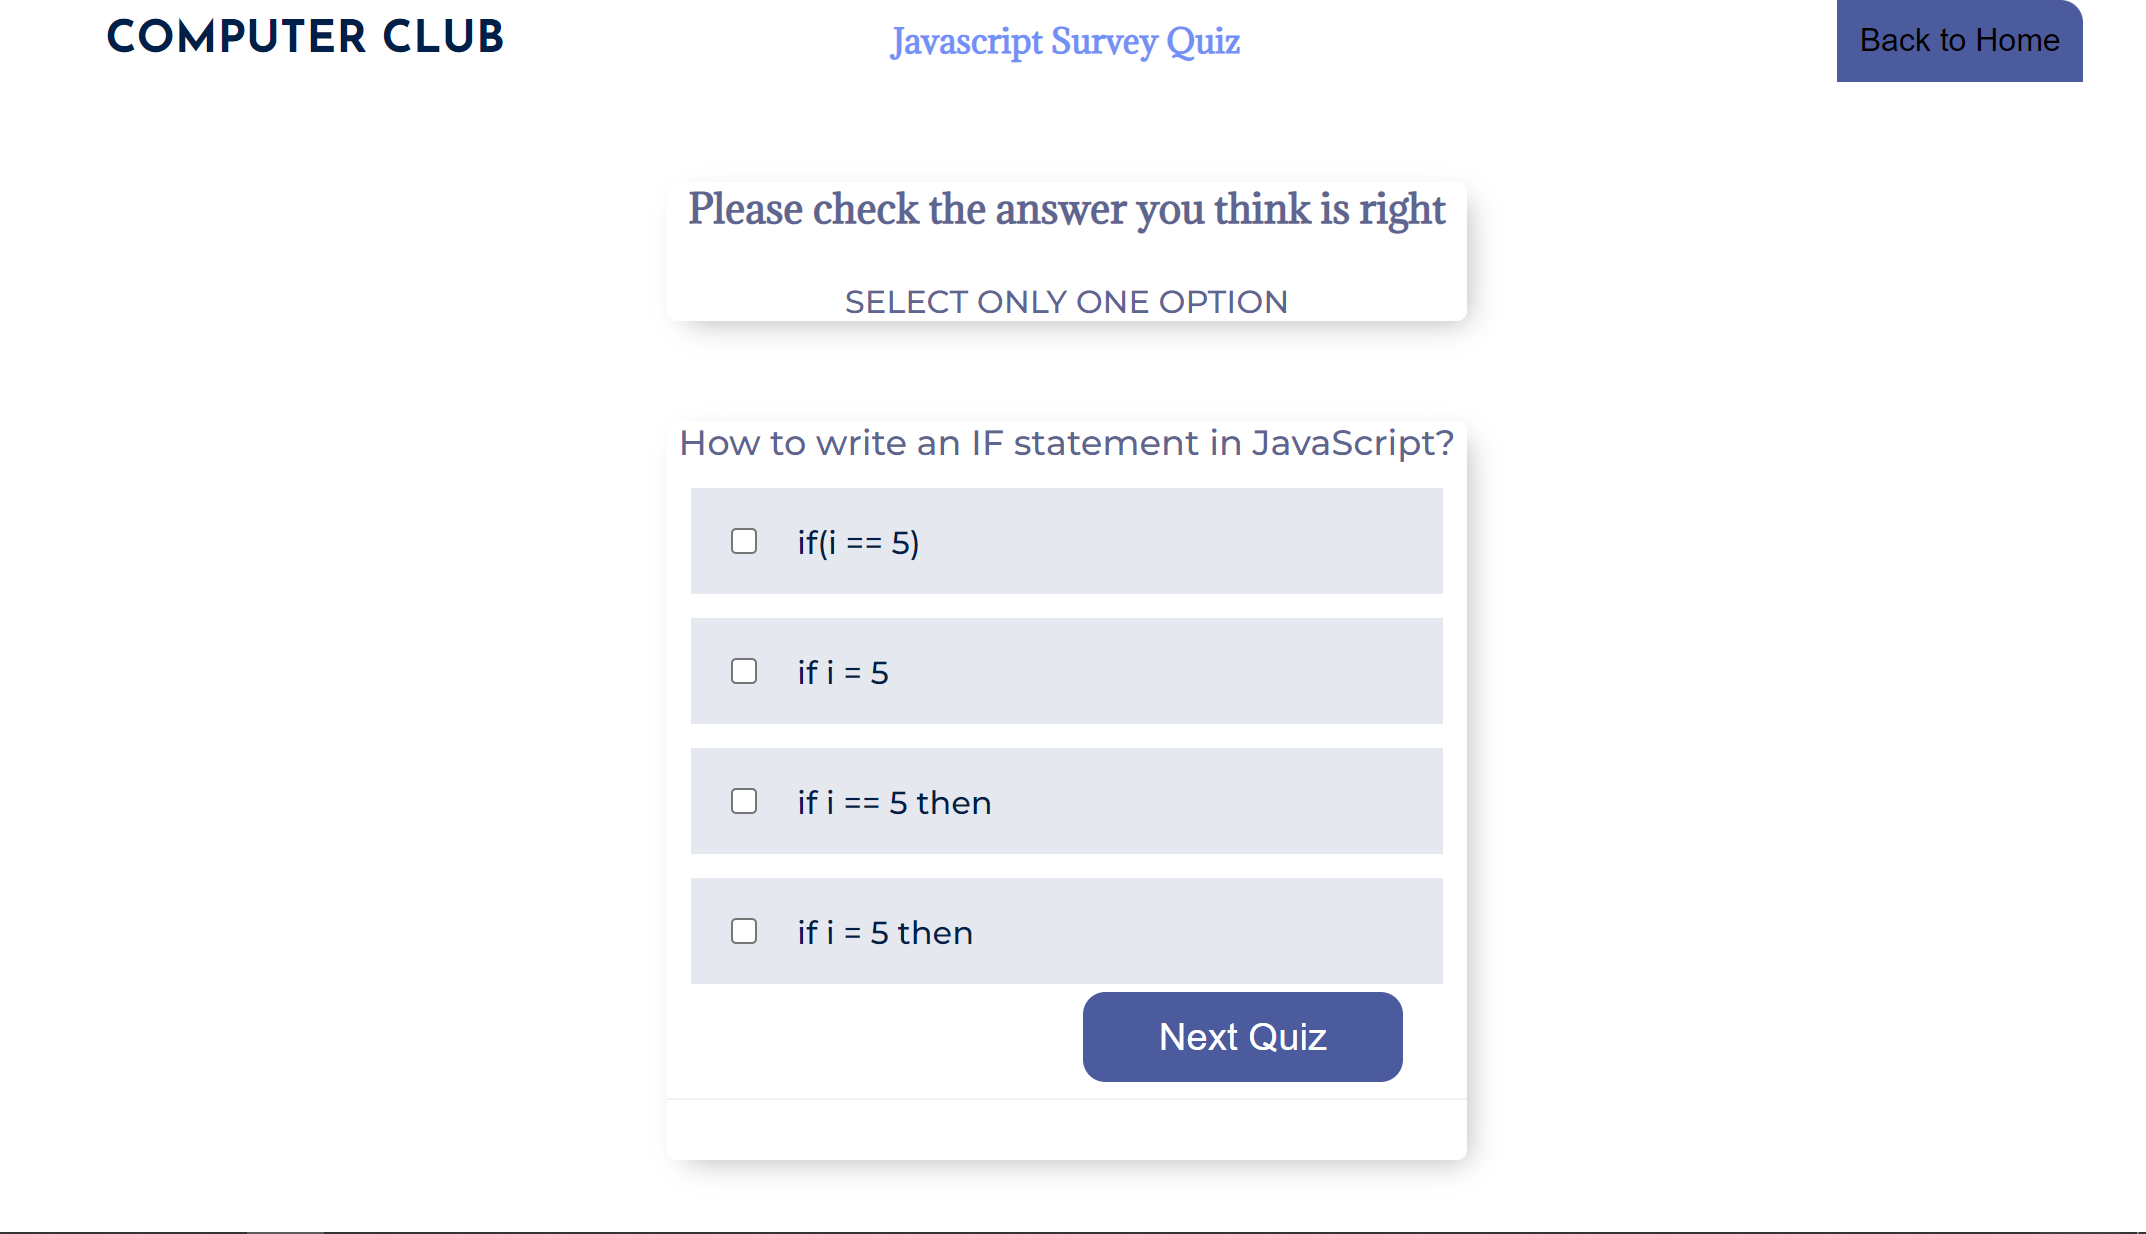
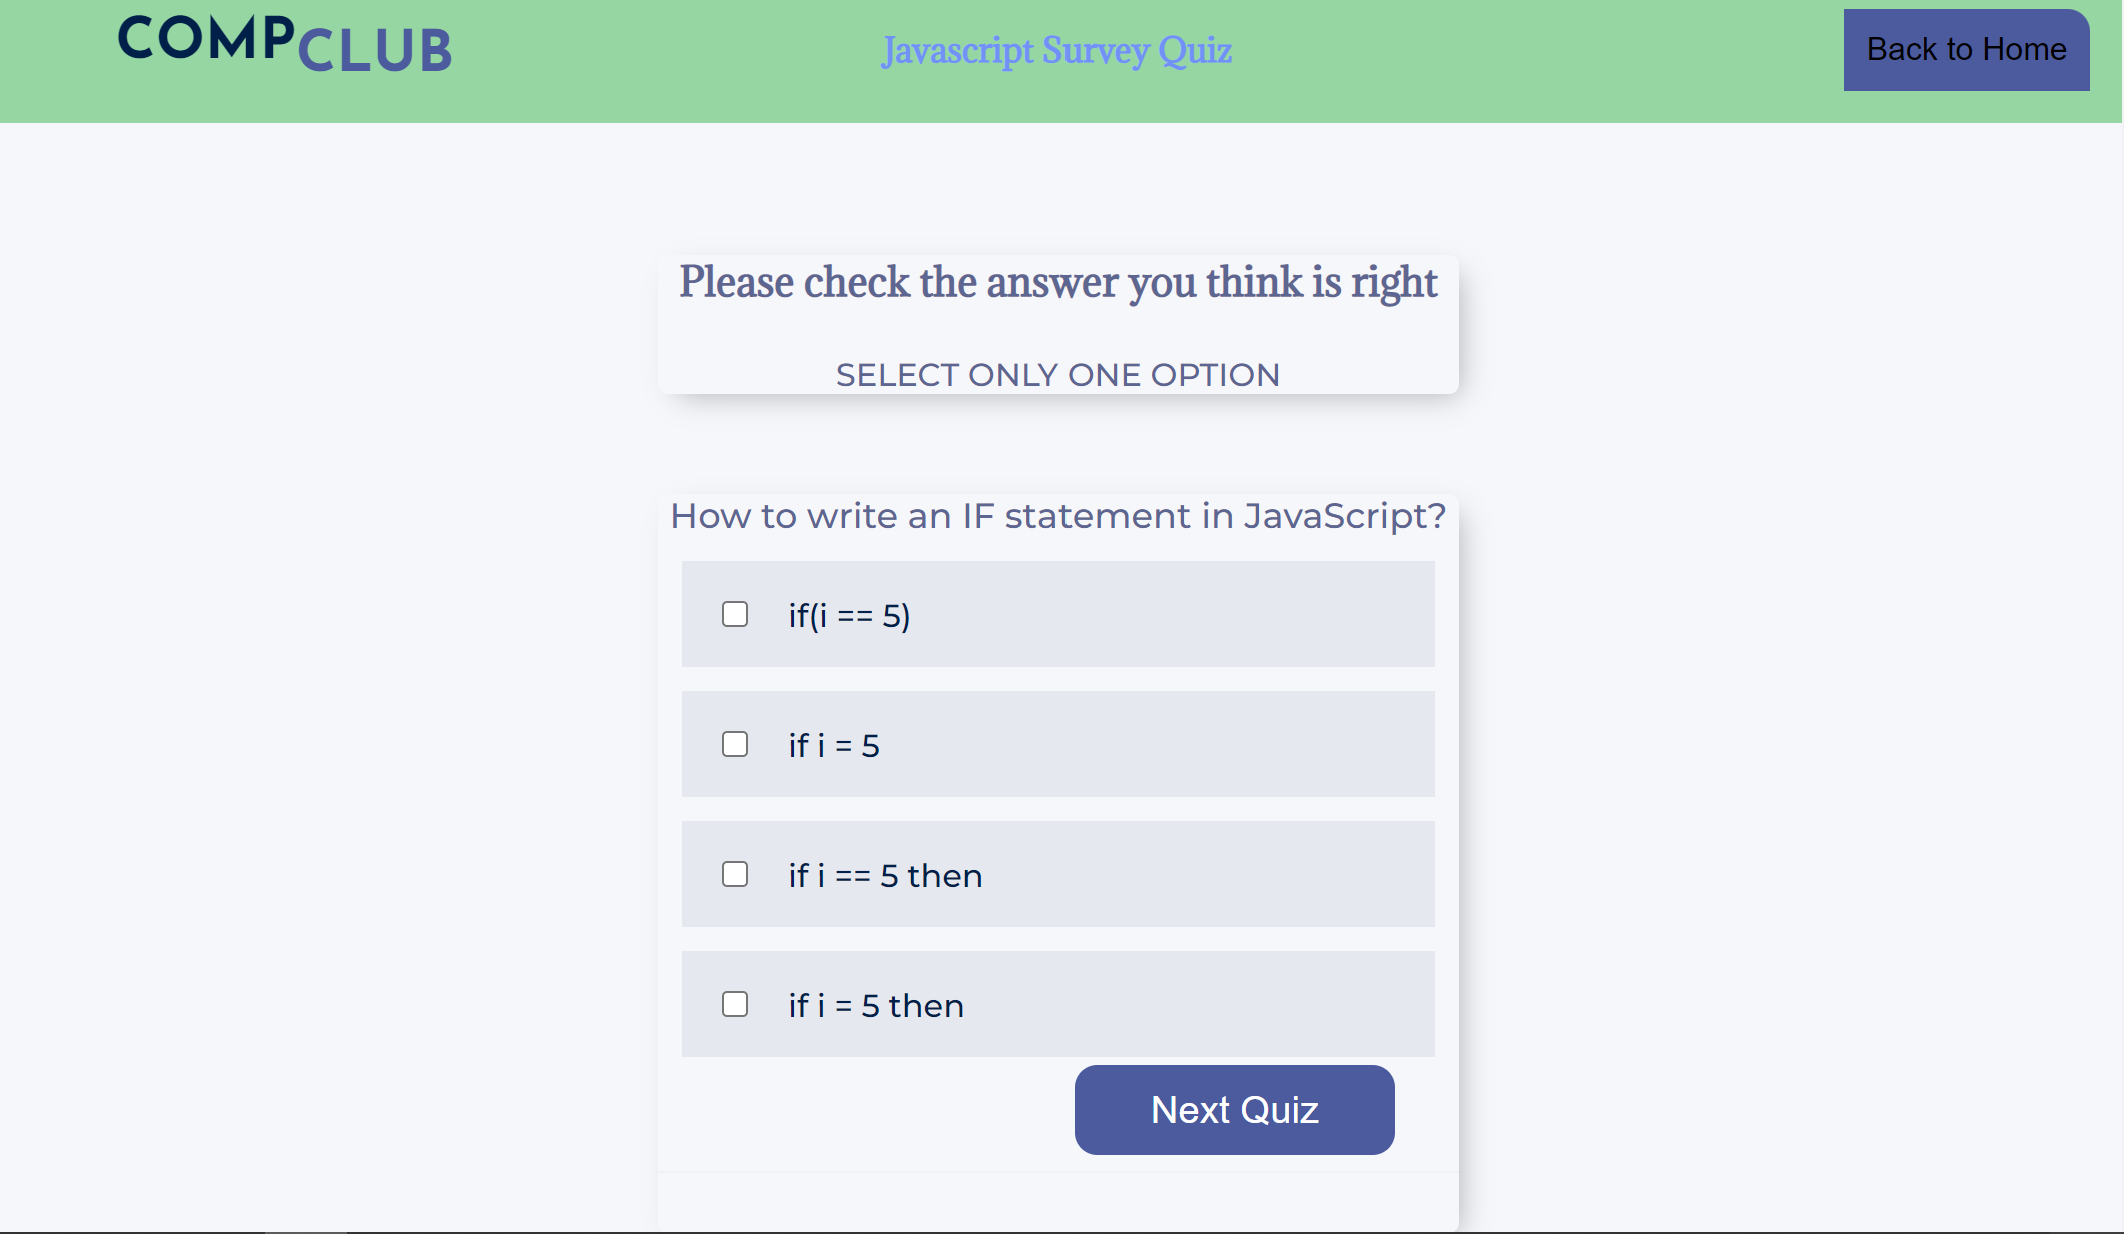
Modify the css stylesheet to change the general outlook of the page

diff --git a/assets/pages/quiz.html b/assets/pages/quiz.html
@@ -12,23 +12,23 @@
     <link rel="stylesheet" href="../css/styles.css" />
   </head>
   <body>
-    <section id="home">
-      <nav>
-        <div class="navMenu">
-          <div class="logo">
-            <h1>
-              <span class="logoTitle">COMP</span
-              ><span class="logoSubTitle">CLUB</span>
-            </h1>
-          </div>
-          <div class="pageTitle">Javascript Survey Quiz</div>
-          <div class="navButton">
-            <button type="submit">
-              <a href="../../index.html">Back to Home</a>
-            </button>
-          </div>
+    <nav>
+      <div class="navMenu">
+        <div class="logo">
+          <h1>
+            <span class="logoTitle">COMP</span
+            ><span class="logoSubTitle">CLUB</span>
+          </h1>
         </div>
-      </nav>
+        <div class="pageTitle">Javascript Survey Quiz</div>
+        <div class="navButton">
+          <button type="submit">
+            <a href="../../index.html">Back to Home</a>
+          </button>
+        </div>
+      </div>
+    </nav>
+    <section id="home">
       <div id="heading">
         <h3>Please check the answer you think is right</h3>
         <p>SELECT ONLY ONE OPTION</p>
@@ -221,6 +221,18 @@
         </div>
       </div>
     </section>
+    <div class="footer">
+      <p class="footerText">
+        Copyright ⓒ
+        <a
+          href="https://github.com/moryno"
+          target="_blank"
+          rel="noopener noreferrer"
+          >Maurice</a
+        >
+        .
+      </p>
+    </div>
     <script src="../js/quiz.js"></script>
   </body>
 </html>

diff --git a/index.html b/index.html
@@ -12,19 +12,19 @@
     <link rel="stylesheet" href="./assets/css/styles.css" />
   </head>
   <body>
-    <section id="home">
-      <nav>
-        <div class="navMenu">
-          <div class="logo">
-            <h1>
-              <span class="logoTitle">COMP</span
-              ><span class="logoSubTitle">CLUB</span>
-            </h1>
-          </div>
-          <div class="pageTitle">Javascript Survey Quiz</div>
-          <div class="navButton"></div>
+    <nav>
+      <div class="navMenu">
+        <div class="logo">
+          <h1>
+            <span class="logoTitle">COMP</span
+            ><span class="logoSubTitle">CLUB</span>
+          </h1>
         </div>
-      </nav>
+        <div class="pageTitle">Javascript Survey Quiz</div>
+        <div class="navButton"></div>
+      </div>
+    </nav>
+    <section id="home">
       <div id="heading" class="landingHeader">
         <h3>Press Start to begin with the quiz</h3>
         <button class="startButton" type="submit">
@@ -32,6 +32,18 @@
         </button>
       </div>
     </section>
+    <div class="footer">
+      <p class="footerText">
+        Copyright ⓒ
+        <a
+          href="https://github.com/moryno"
+          target="_blank"
+          rel="noopener noreferrer"
+          >Maurice</a
+        >
+        .
+      </p>
+    </div>
     <script src="./assets/js/quiz.js"></script>
   </body>
 </html>

diff --git a/assets/css/styles.css b/assets/css/styles.css
@@ -8,15 +8,17 @@ body {
     background-color: rgb(245, 247, 251);
     color: rgb(93,102,144);
     font-family: 'Montserrat', sans-serif;
+    
 }
 
 /* .............................. NAVIGATION SECTION ........................... */
 #home, #landing {
     height: 100vh;
-    padding: 1rem 2rem;
+    padding: 1rem ;
 }
 nav {
     padding: 1rem;
+    background-color: #95d6a2;
 }
 nav > .navMenu {
     display: flex;
@@ -78,7 +80,7 @@ nav > .navMenu > .navButton > button {
 }
 .landingHeader{
     padding: 8rem;
-    background-color: #95d6a2;
+    
 }
 
 #heading > h3 {
@@ -189,6 +191,14 @@ input[type="checkbox"] {
 .submit {
     right: 2rem;
 }
+.footer {
+    
+    text-align: center;
+    padding: 1.75rem;
+    background-color: #95d6a2;
+  }
+  
+
 
 /* MEDIA QUERY */
 
